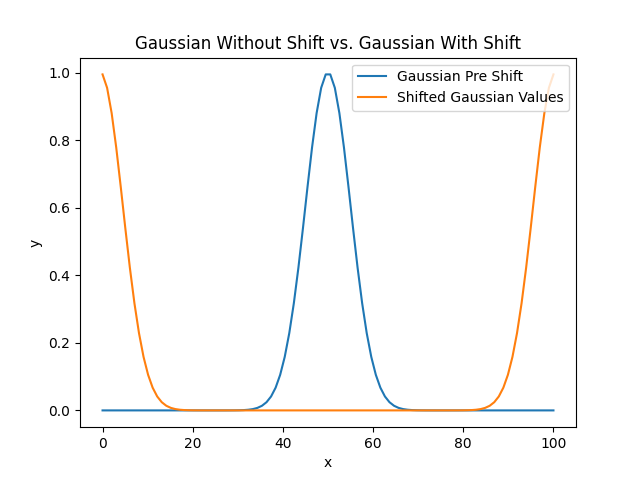
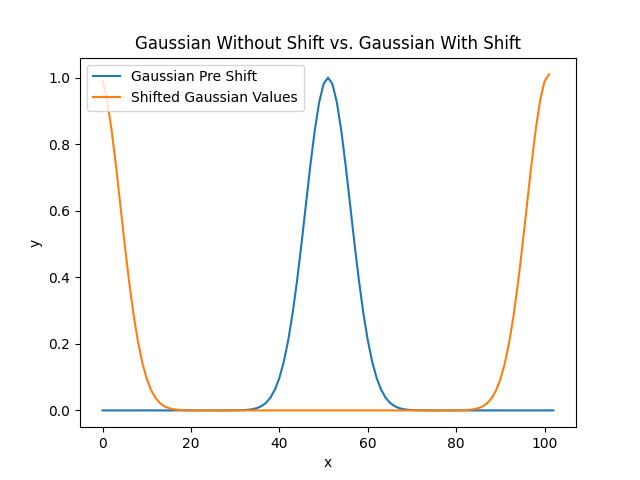
Did most of question 2

diff --git a/PS6/Q2.py b/PS6/Q2.py
@@ -1,0 +1,76 @@
+#Importing useful Modules
+import numpy as np 
+import matplotlib.pyplot as plt 
+from Q1 import gaussian     #Steal our old gaussian 
+from Q1 import convolutionShifter
+def correlationFunction(array1,array2):
+    '''
+    Returns the correlation function of two arrays 
+    Params:
+    -------
+    Array1, numberArray: First array to be correlated
+    Array2, numberArray: Second array to be correlated with the first
+    Returns:
+    --------
+    correlation, numberArray: the correlation between the two arrays
+    '''
+
+    #Fourier transforms of our two arrays
+    fft1 = np.fft.fft(array1)
+    fft2 = np.fft.fft(array2)
+
+    #Multiplying the fft of array 1 with the conjugate of the fft of array 2, as the proof shows
+    correlationFft = fft1*(fft2.conjugate())
+    #Inverse fourier transform
+    correlation = np.fft.ifft(correlationFft)
+
+    return correlation
+
+def correlationFunctionShifted(array1,array2,shift):
+    '''
+    Returns the correlation function, calculated via fourier transforms, of a 
+    signal with a shifted signal
+    Params:
+    -------
+    array1, numberArray: An array of numbers
+    array2, numberArray: An array of numbers to correlate the first array with
+    shift, integer: An integer value to shift array 2 by 
+    Returns:
+    -------
+    Correlation, numberArray: the correlation of Array1 with shifted Array2
+    '''
+
+    array2 = convolutionShifter(array2, shift)  #Shifting our second array
+    return correlationFunction(array1, array2)
+
+
+    return
+if __name__ == "__main__":
+    N = int(100)
+    xs = np.linspace(0, 100,N)
+    ys = gaussian(1, 50, 5, xs) #Our gaussian
+
+    #Correlating a gaussian with itself
+    correlation = correlationFunction(ys, ys)
+
+    #Plotting
+    plt.plot(correlation, label = 'Correlation Signal')
+    plt.title("Correlation of a Gaussian with Itself ")
+    plt.xlabel('x')
+    plt.ylabel('y')
+    plt.legend()
+    plt.savefig('Q2a.png')
+
+    plt.clf()       #Clearing our figure
+
+    #Correlating a gaussian with a shifted gaussian
+    shift = 25
+    correlation = correlationFunctionShifted(ys, ys, shift)
+
+    #Plotting
+    plt.plot(correlation, label = 'Correlation Signal')
+    plt.title("Correlation of a Gaussian with a Shifted Version of Itself by: " + str(shift))
+    plt.xlabel('x')
+    plt.ylabel('y')
+    plt.legend()
+    plt.savefig('Q2b.png')

diff --git a/PS6/Q1.py b/PS6/Q1.py
@@ -21,6 +21,7 @@ def convolutionShifter(array,amountToShift):
     #Initalization
     lenArray = len(array)       #The length of our array
     shifterArray = np.zeros(lenArray)   
+
     shifterArray[amountToShift%lenArray] = 1     #Assigning where to shift, % sign is to avoid an error, arbitrary shift!
 
     #FFTs and Convolution
@@ -28,7 +29,7 @@ def convolutionShifter(array,amountToShift):
     shiftFft = np.fft.rfft(shifterArray)
 
     returnedArrayFft = arrayFft*shiftFft        #Our convolution in fourier space
-
+    print(len(returnedArrayFft))
     returnedArray = np.fft.irfft(returnedArrayFft)        #Undoing the fourier transform
 
     return returnedArray
@@ -49,21 +50,25 @@ def gaussian(a,b,c,xs):
     ''' 
     return a* np.exp(-((xs-b)**2)/(2*c**2))
 
-N = 100         #Number of data points
-xs = np.linspace(0,100,N)      #Our Xs
-ys = gaussian(1, len(xs)/2, 5, xs)      #Our gaussian values starting in the middle of the array
+#Stop code from running unless it's the main instance
+if __name__ == "__main__":
+    N = 103     #Number of data points
 
-shift = int(len(xs)/2)          #Amount to shift our gaussian
+    xs = np.linspace(0,100,N)      #Our Xs
+    ys = gaussian(1, 50, 5, xs)      #Our gaussian values starting in the middle of the array
 
-shiftedYs = convolutionShifter(ys, shift)
+    shift = (N//2)          #Amount to shift our gaussian
 
-#Plotting
-plt.plot(xs,ys,label = 'Gaussian Pre Shift')
-plt.plot(xs,shiftedYs,label = 'Shifted Gaussian Values')
-plt.xlabel('x')
-plt.ylabel('y')
-plt.title('Gaussian Without Shift vs. Gaussian With Shift')
-plt.legend()
-plt.savefig('Q1.png')
+    shiftedYs = convolutionShifter(ys, shift)
+
+    #Plotting
+
+    plt.plot(ys,label = 'Gaussian Pre Shift')
+    plt.plot(shiftedYs,label = 'Shifted Gaussian Values')
+    plt.xlabel('x')
+    plt.ylabel('y')
+    plt.title('Gaussian Without Shift vs. Gaussian With Shift')
+    plt.legend()
+    plt.savefig('Q1.png')
 
 
